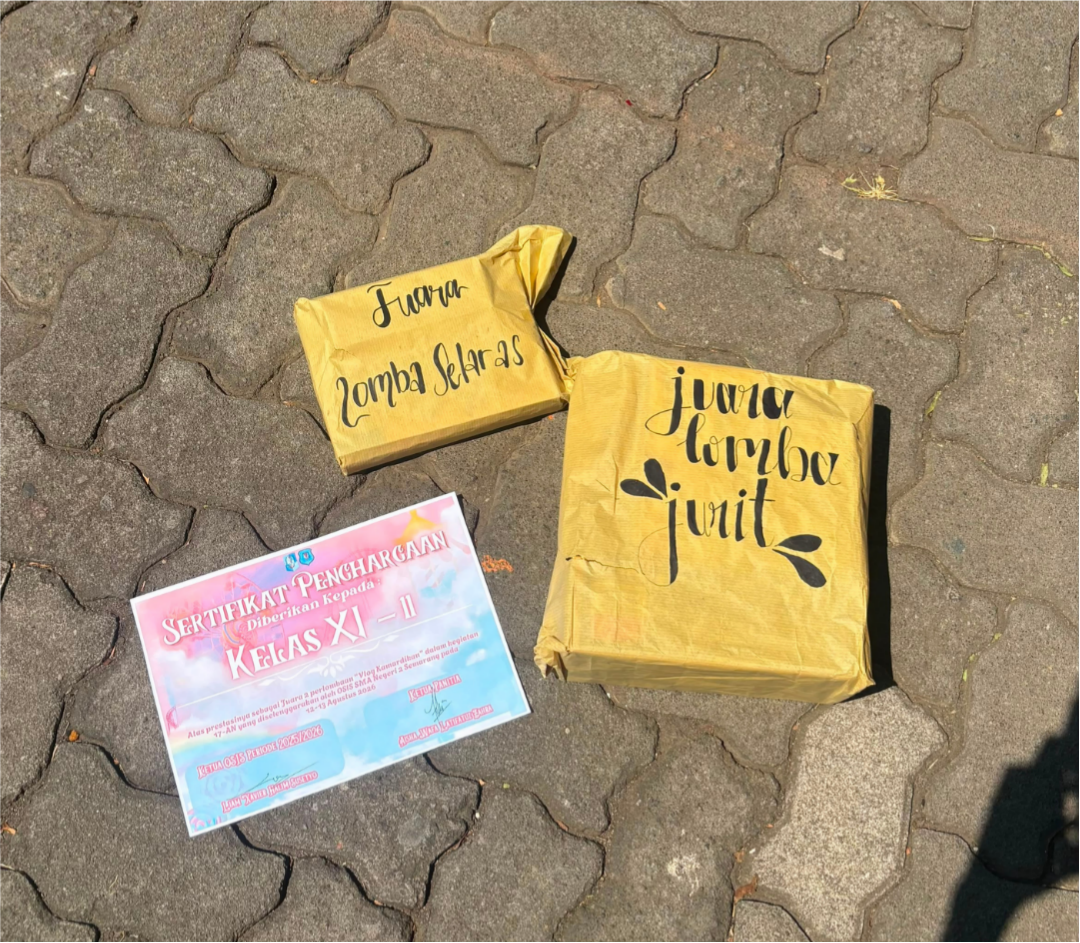
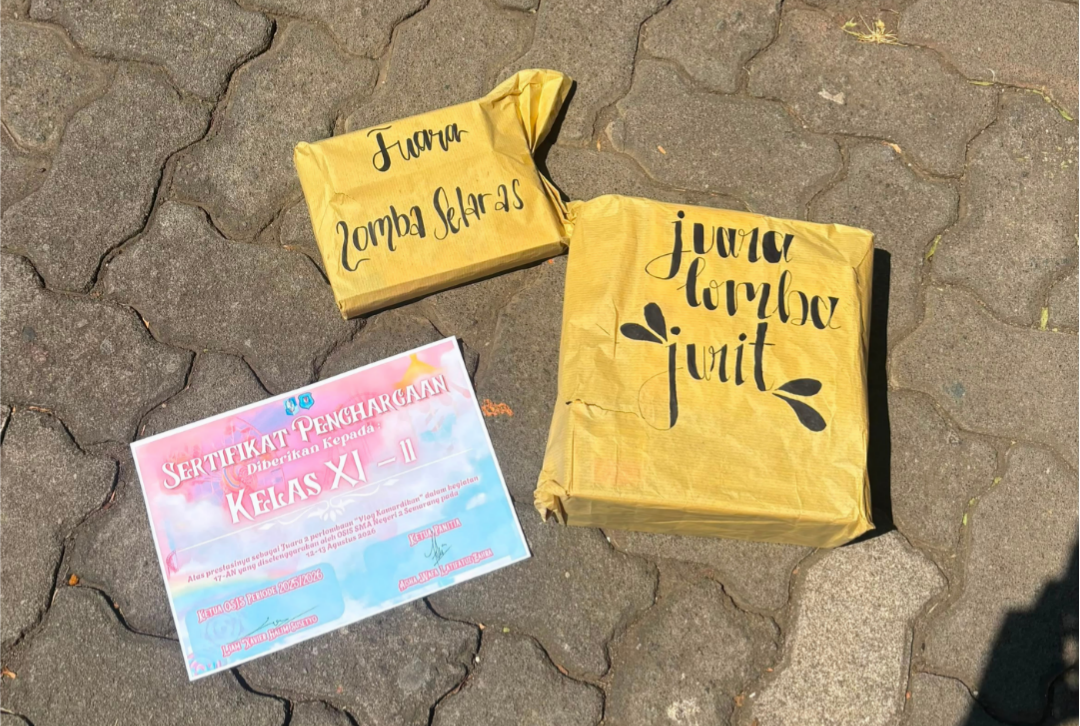
Last October Update

diff --git a/dist/css/style.css b/dist/css/style.css
@@ -41,6 +41,7 @@ body {
   color: var(--text-dark);
   background-color: var(--bg-light);
   line-height: 1.6;
+  padding-top: 70px;
 }
 
 .container {
@@ -59,10 +60,11 @@ body {
    NAVBAR BASE & DESKTOP STYLES
    ======================================================== */
    .navbar {
-    position: sticky;
+    position: fixed !important; /* Terkunci permanen di viewport layar */
     top: 0;
     left: 0;
     width: 100%;
+    height: 70px; 
     z-index: 9999;
     background-color: rgba(255, 255, 255, 0.92);
     backdrop-filter: blur(10px);
@@ -177,84 +179,117 @@ body {
   /* ========================================================
      RESPONSIVE (HP & TABLET: Lebar Layar <= 991px)
      ======================================================== */
-  @media (max-width: 991px) {
-    .navbar {
-      height: 70px !important;
-      padding: 0 !important;
+     @media (max-width: 991px) {
+      .navbar {
+        height: 70px !important;
+        padding: 0 !important;
+        display: flex !important;
+        align-items: center !important;
+      }
+    
+      .navbar .container {
+        height: 100% !important;
+        width: 100% !important;
+        padding-left: 16px !important;
+        padding-right: 16px !important;
+        display: flex !important;
+        align-items: center !important;
+      }
+    
+      /* Kunci Baris Sejajar Tengah */
+      .navbar-box {
+        width: 100% !important;
+        display: flex !important;
+        flex-direction: row !important;
+        justify-content: space-between !important;
+        align-items: center !important;
+        margin: 0 !important;
+      }
+    
+      /* Logo */
+      .navbar-box .logo,
+      .navbar-box .logo a {
+        display: flex !important;
+        align-items: center !important;
+        margin: 0 !important;
+        padding: 0 !important;
+      }
+    
+      .navbar-box .logo img {
+        height: 42px !important;
+        width: auto !important;
+        display: block !important;
+        margin: 0 !important;
+        object-fit: contain !important;
+      }
+    
+      /* Kontainer Tombol Hamburger */
+      .hamburger-btn {
+        display: flex !important;
+        flex-direction: column !important; /* Susun 3 garis ke bawah */
+        justify-content: center !important;
+        align-items: center !important;
+        gap: 5px !important;               /* Jarak antar baris */
+        width: 40px !important;
+        height: 40px !important;
+        padding: 0 !important;
+        background: transparent !important;
+        border: none !important;
+        cursor: pointer !important;
+        margin: 0 0 0 auto !important;     /* Kunci di pojok kanan */
+        z-index: 1001 !important;
+      }
+    
+      /* Bentuk Fisik Tiap Garis */
+      .hamburger-btn span {
+        display: block !important;
+        width: 24px !important;            /* Panjang garis */
+        height: 3px !important;             /* Ketebalan garis */
+        background-color: #1e1b4b !important; /* Warna garis */
+        border-radius: 4px !important;
+        transition: all 0.3s ease !important;
+        flex-shrink: 0 !important;          /* Larang garis menyusut/gepeng */
+      }
+    
+      /* Panel Menu Dropdown */
+      .navbar-box .menu {
+        position: absolute;
+        top: 70px;
+        left: 0;
+        width: 100%;
+        background: #ffffff;
+        flex-direction: column;
+        align-items: center;
+        gap: 12px;
+        padding: 22px 16px;
+        border-radius: 0 0 20px 20px;
+        box-shadow: 0 16px 30px rgba(30, 27, 75, 0.1);
+        border-bottom: 3px solid #fed7aa;
+    
+        opacity: 0;
+        pointer-events: none;
+        transform: translateY(-15px);
+        transition: all 0.3s ease;
+      }
+    
+      .navbar-box .menu.open {
+        opacity: 1;
+        pointer-events: auto;
+        transform: translateY(0);
+      }
+    
+      .navbar-box .menu li {
+        width: 100%;
+        text-align: center;
+      }
+    
+      .navbar-box .menu li a {
+        display: block;
+        width: 100%;
+        padding: 10px 0;
+        font-size: 15px;
+      }
     }
-  
-    .navbar .container {
-      padding-left: 16px !important;
-      padding-right: 16px !important;
-    }
-  
-    /* Kunci Baris Horizontal di HP & Tablet */
-    .navbar-box {
-      display: flex !important;
-      flex-direction: row !important;
-      justify-content: space-between !important;
-      align-items: center !important;
-    }
-  
-    /* Kunci Logo di Pojok Kiri */
-    .navbar-box .logo,
-    .navbar-box .logo a {
-      display: flex !important;
-      align-items: center !important;
-      margin: 0 !important;
-    }
-  
-    .navbar-box .logo img {
-      height: 44px !important;
-      width: auto !important;
-      margin: 0 !important;
-    }
-  
-    /* Munculkan Hamburger di Pojok Kanan */
-    .hamburger-btn {
-      display: flex !important;
-      margin-left: auto !important;
-    }
-  
-    /* Panel Menu Dropdown */
-    .navbar-box .menu {
-      position: absolute;
-      top: 70px;
-      left: 0;
-      width: 100%;
-      background: #ffffff;
-      flex-direction: column;
-      align-items: center;
-      gap: 12px;
-      padding: 22px 16px;
-      border-radius: 0 0 20px 20px;
-      box-shadow: 0 16px 30px rgba(30, 27, 75, 0.1);
-      border-bottom: 3px solid #fed7aa;
-  
-      opacity: 0;
-      pointer-events: none;
-      transform: translateY(-15px);
-      transition: all 0.3s ease;
-    }
-  
-    .navbar-box .menu.open {
-      opacity: 1;
-      pointer-events: auto;
-      transform: translateY(0);
-    }
-  
-    .navbar-box .menu li {
-      width: 100%;
-      text-align: center;
-    }
-  
-    .navbar-box .menu li a {
-      display: block;
-      width: 100%;
-      padding: 10px 0;
-      font-size: 15px;
-    }
-  }
 
 /* ================= HERO SECTION (PARK MAIN GATE) ================= */
 .hero-pastel {

diff --git a/index.html b/index.html
@@ -115,13 +115,13 @@
       
               <!-- Update Paling Baru -->
               <div class="bulletin-item latest">
-                <span class="bulletin-date">16 September 2026</span>
-                <p><strong>Update Terbaru:</strong> Penambahan foto Maulid Nabi, PEMULOS, dan Kokurikuler di Memories Lane</p>
+                <span class="bulletin-date">31 Oktober 2026</span>
+                <p><strong>Update Terbaru:</strong> Penambahan foto Maulid Nabi, PEMULOS, dan Kokurikuler di Memories Lane dan Hadiah Kokurikuler pada Prize Corner.</p>
               </div>
       
               <!-- Update Sebelumnya -->
               <div class="bulletin-item">
-                <span class="bulletin-date">15 September 2026</span>
+                <span class="bulletin-date">16 September 2026</span>
                 <p><strong>Update Sebelumnya:</strong> Fitur baru rilis! Sekarang pesan dan masukan manis terpilih sudah dipajang di Words of Seimphoria. 💌✨</p>
               </div>
       
